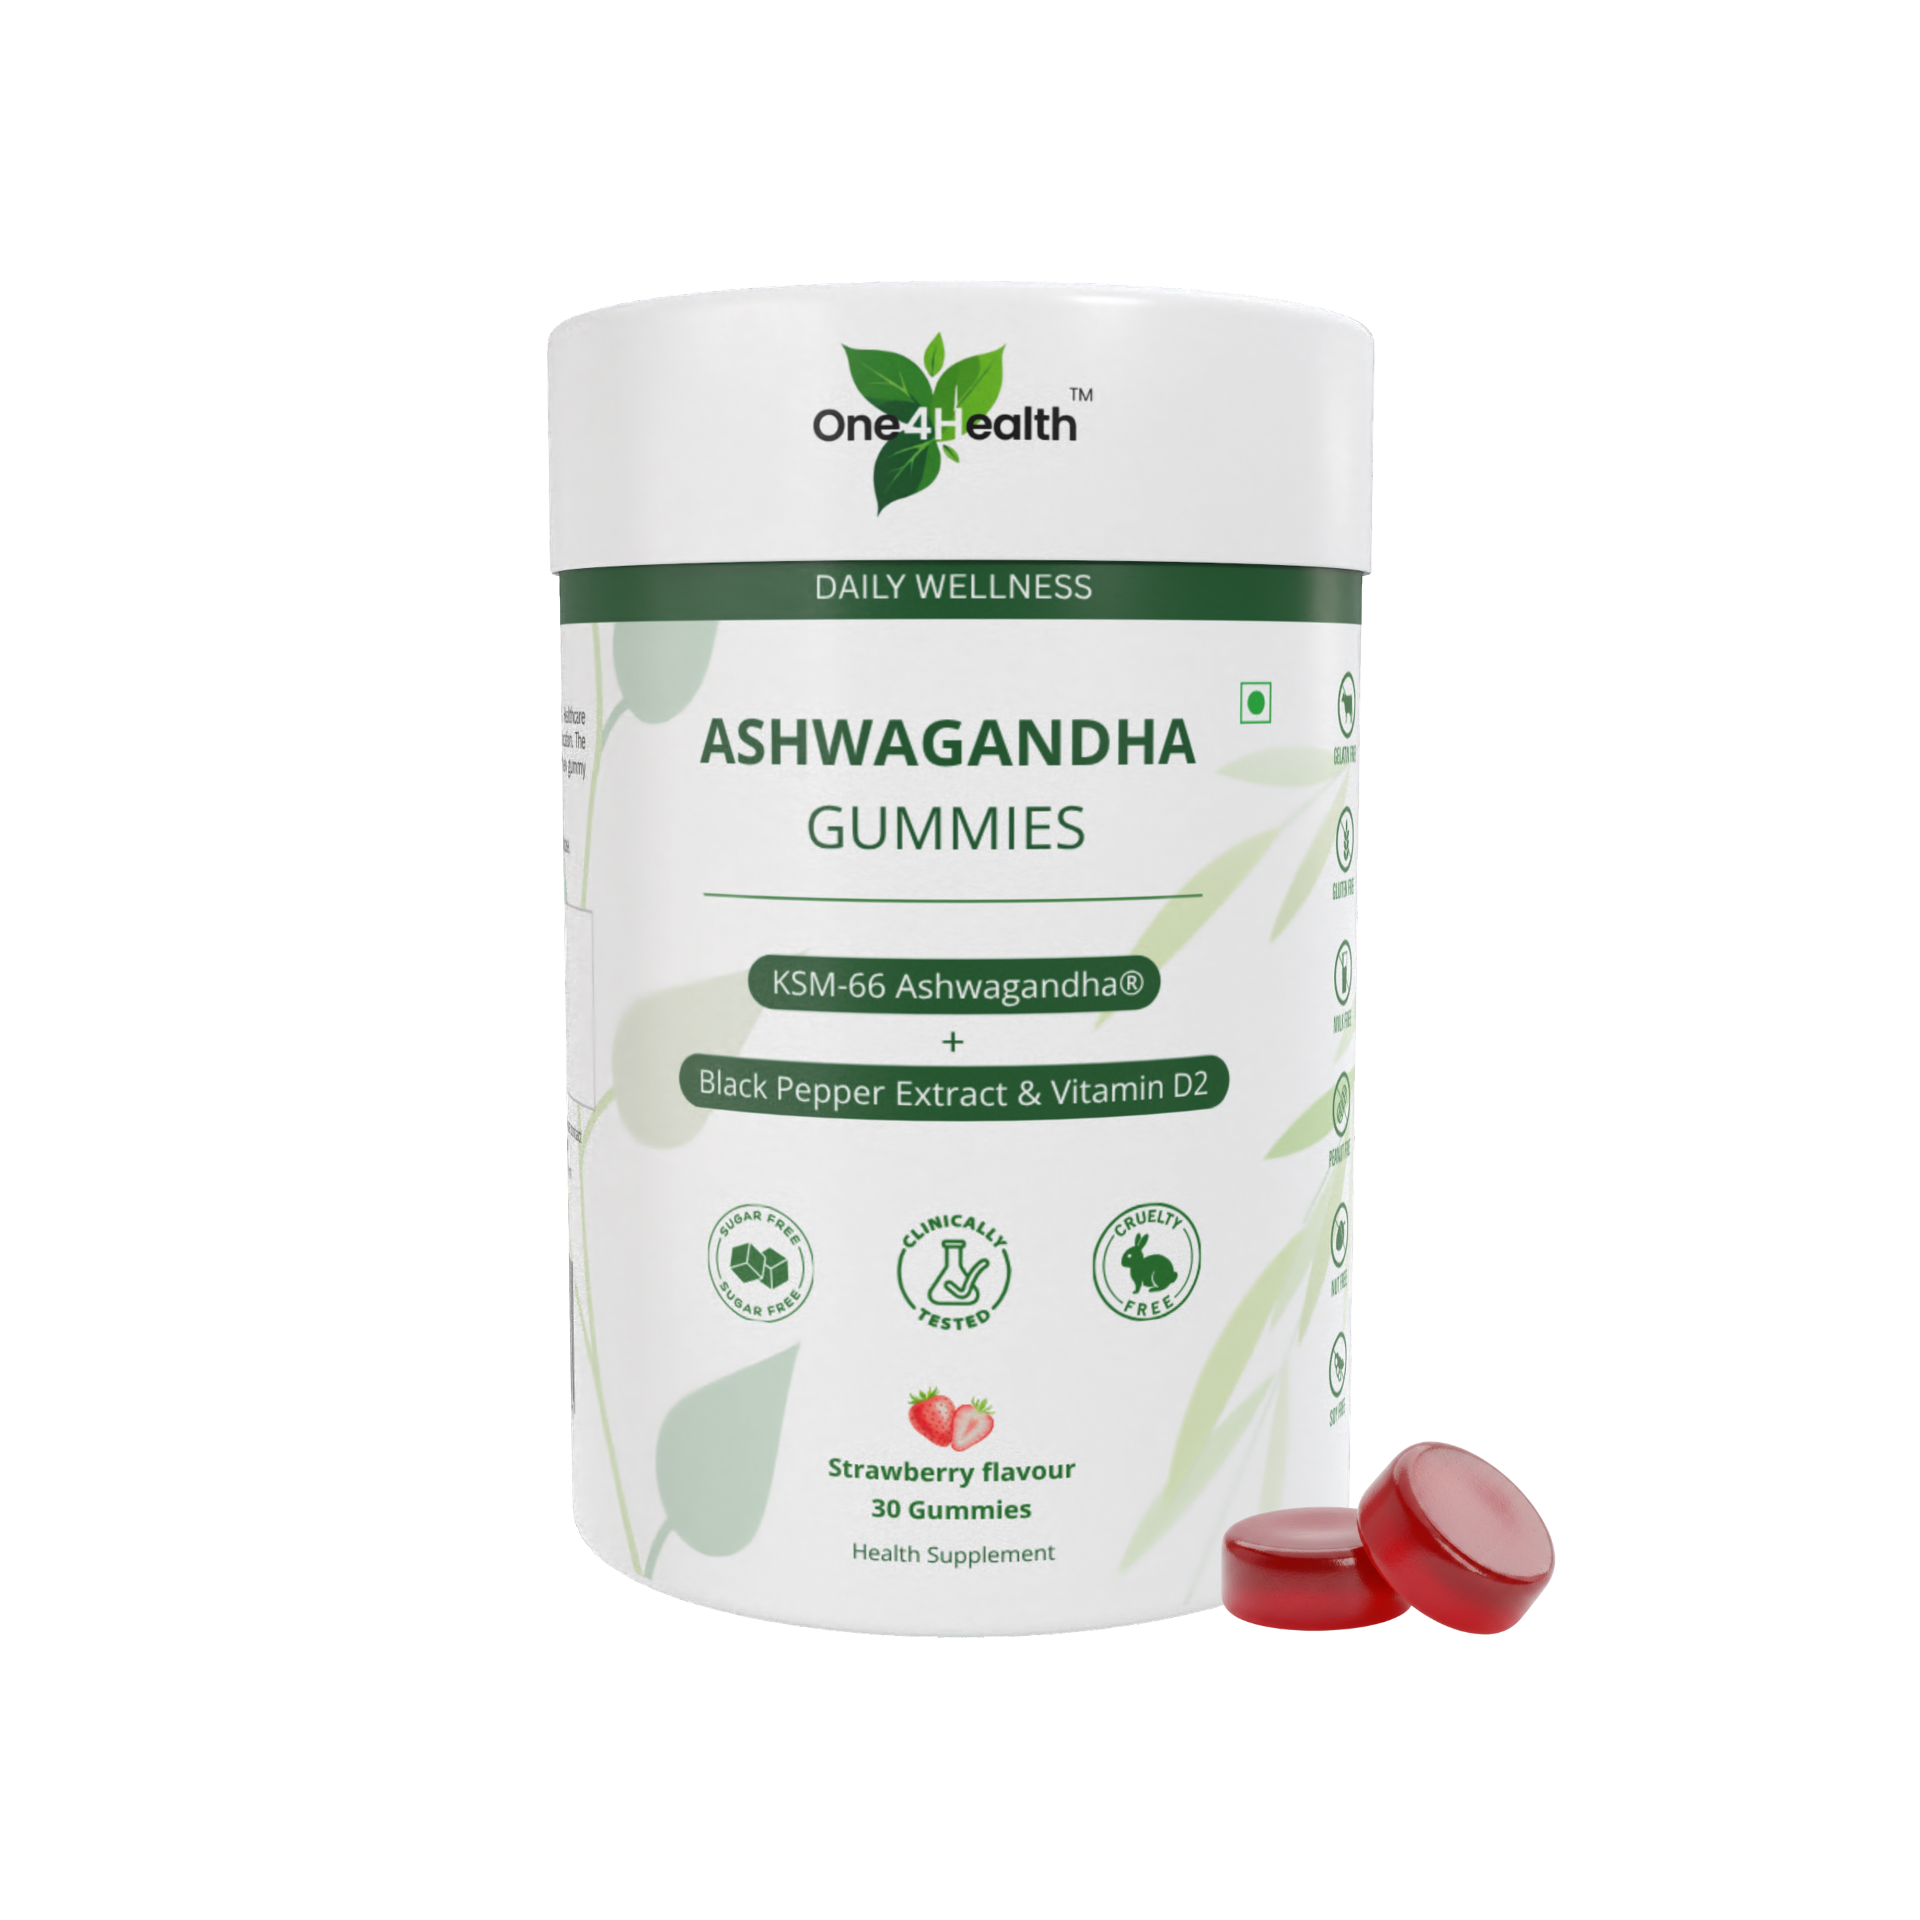
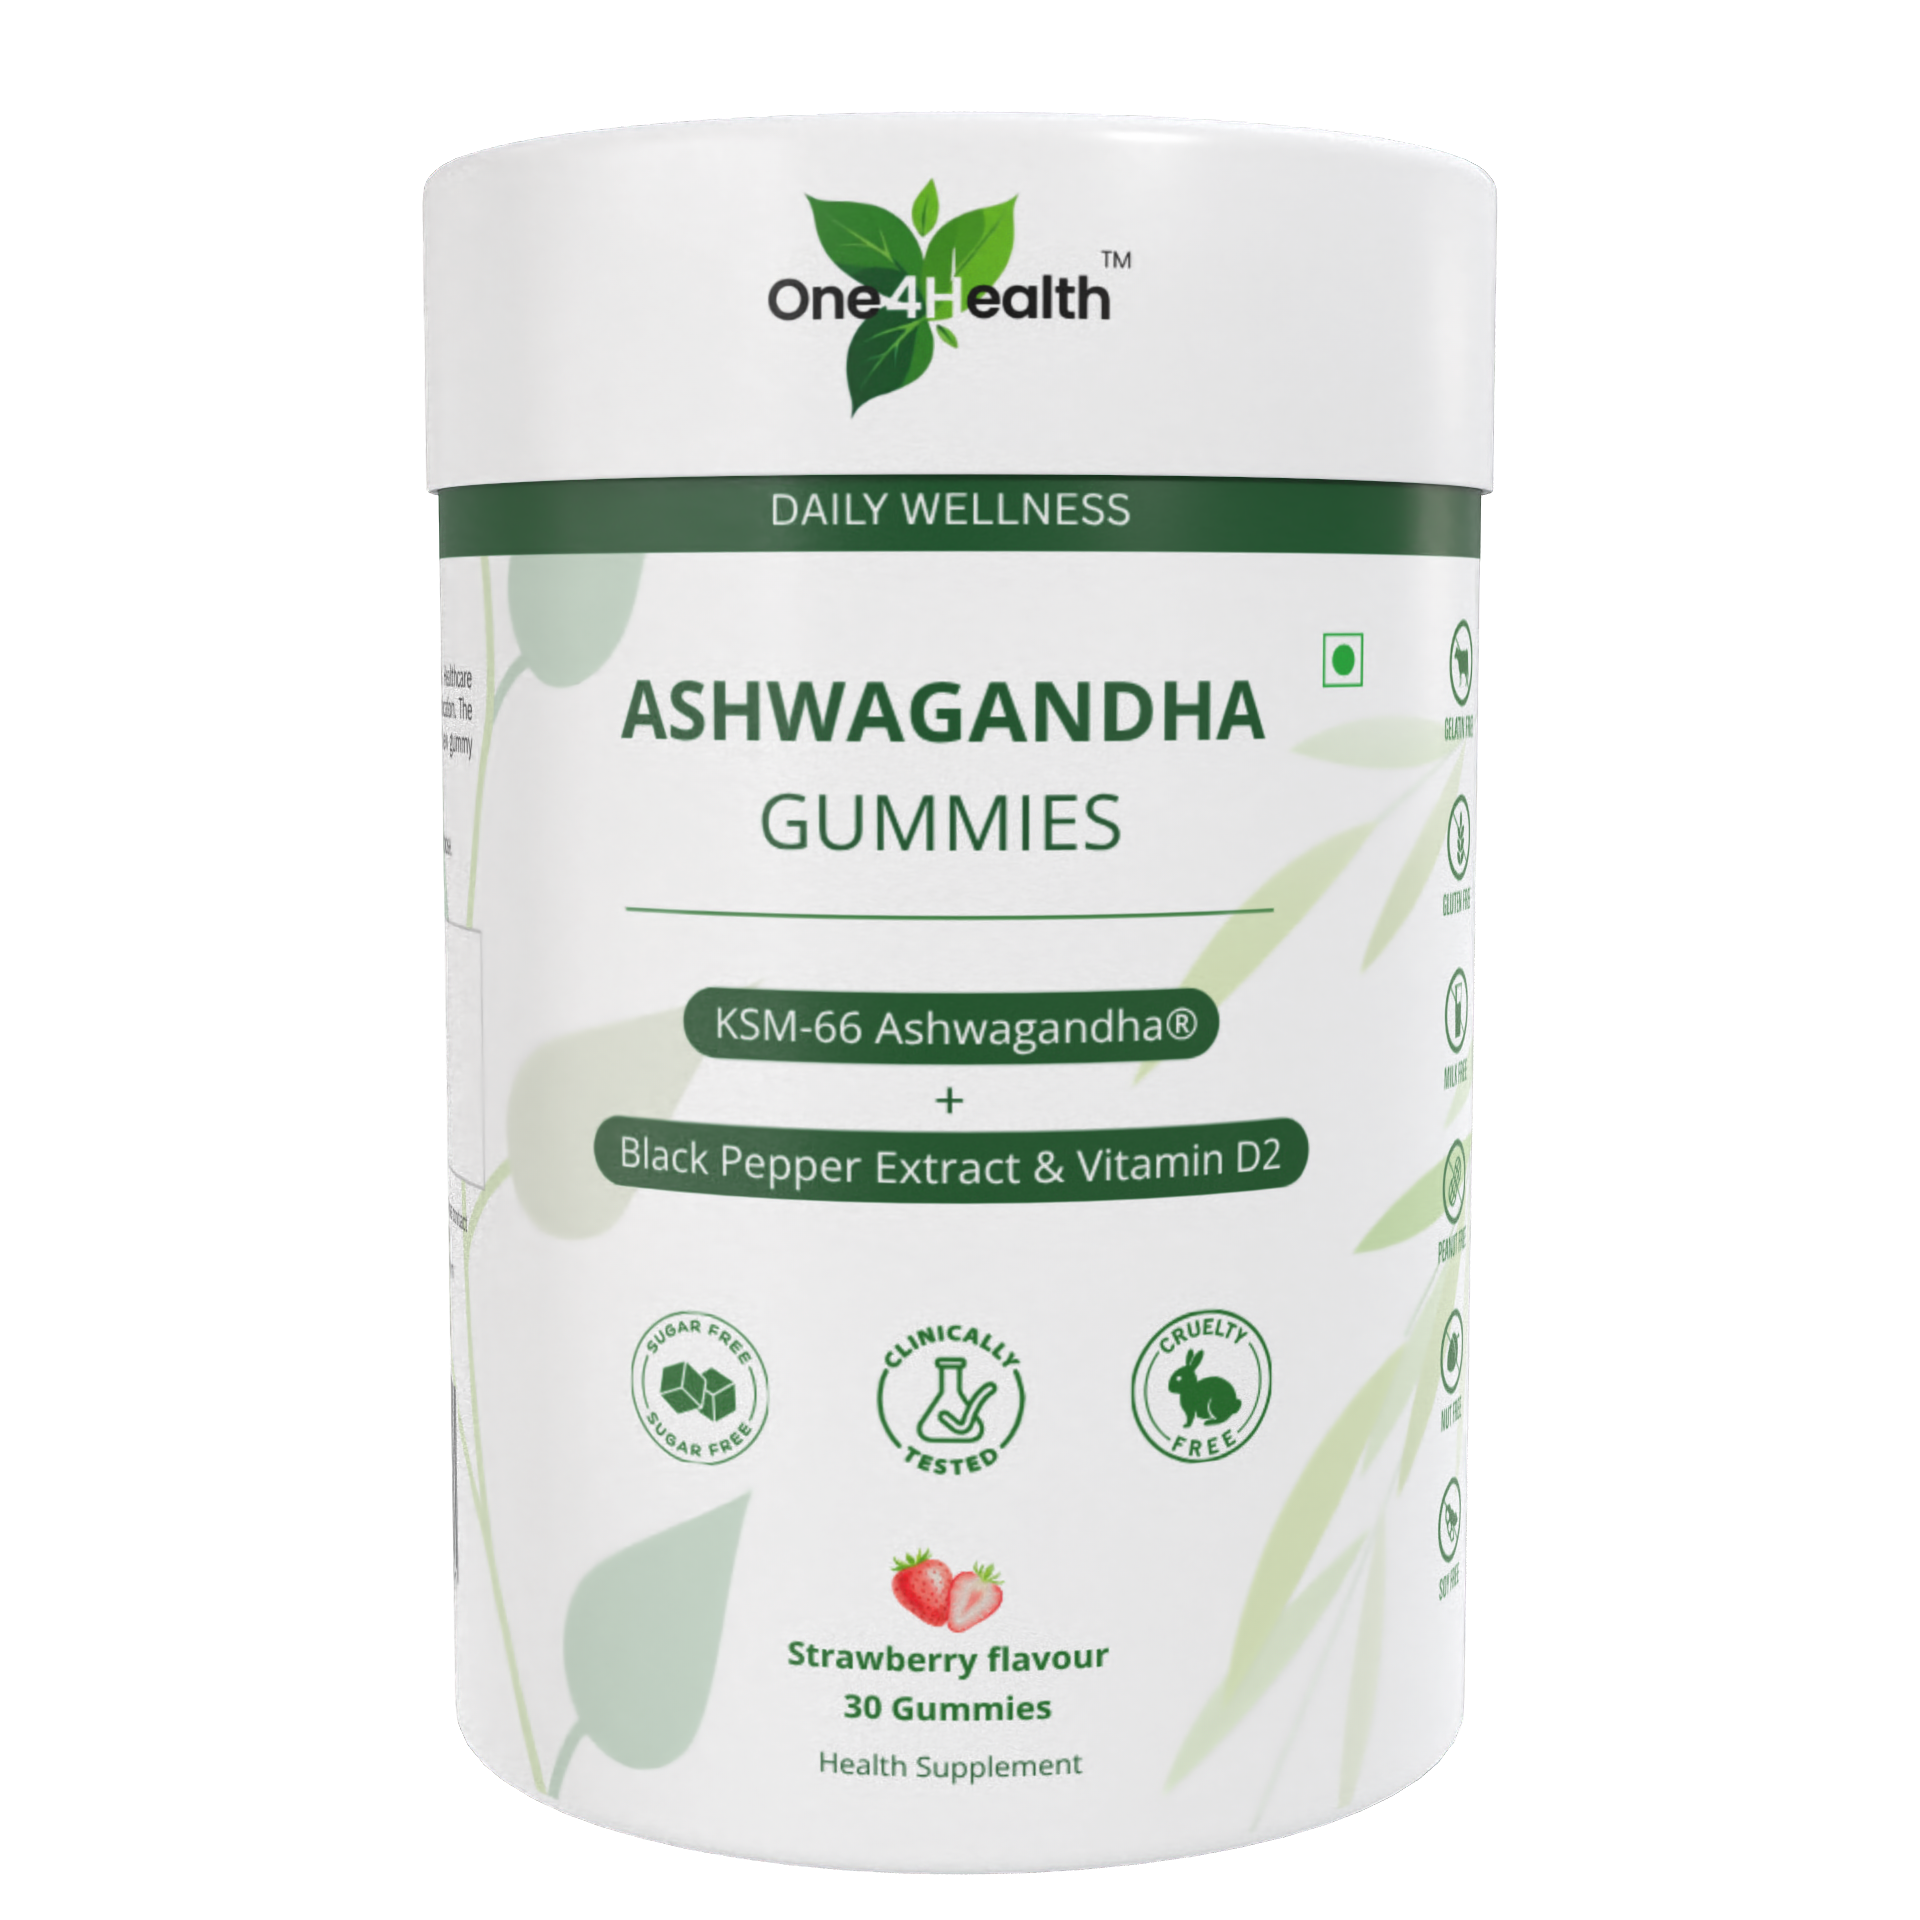
Use shop.png for shop card and cart image

Changed region(s): [[0.2188, 0.0625, 0.8125, 1.0]]

diff --git a/src/data/products.ts b/src/data/products.ts
@@ -7,7 +7,7 @@ export const mainProduct: Product = {
   description: 'Clinically studied KSM-66® Ashwagandha with Vitamin D2 and black pepper extract to support your body\'s stress response, promote relaxation, and help maintain daily balance.',
   price: 36900,
   originalPrice: 44900,
-  image: '/images/p1.png',
+  image: '/images/shop.png',
   images: [
     '/images/p1.png',
     '/images/p2.png',